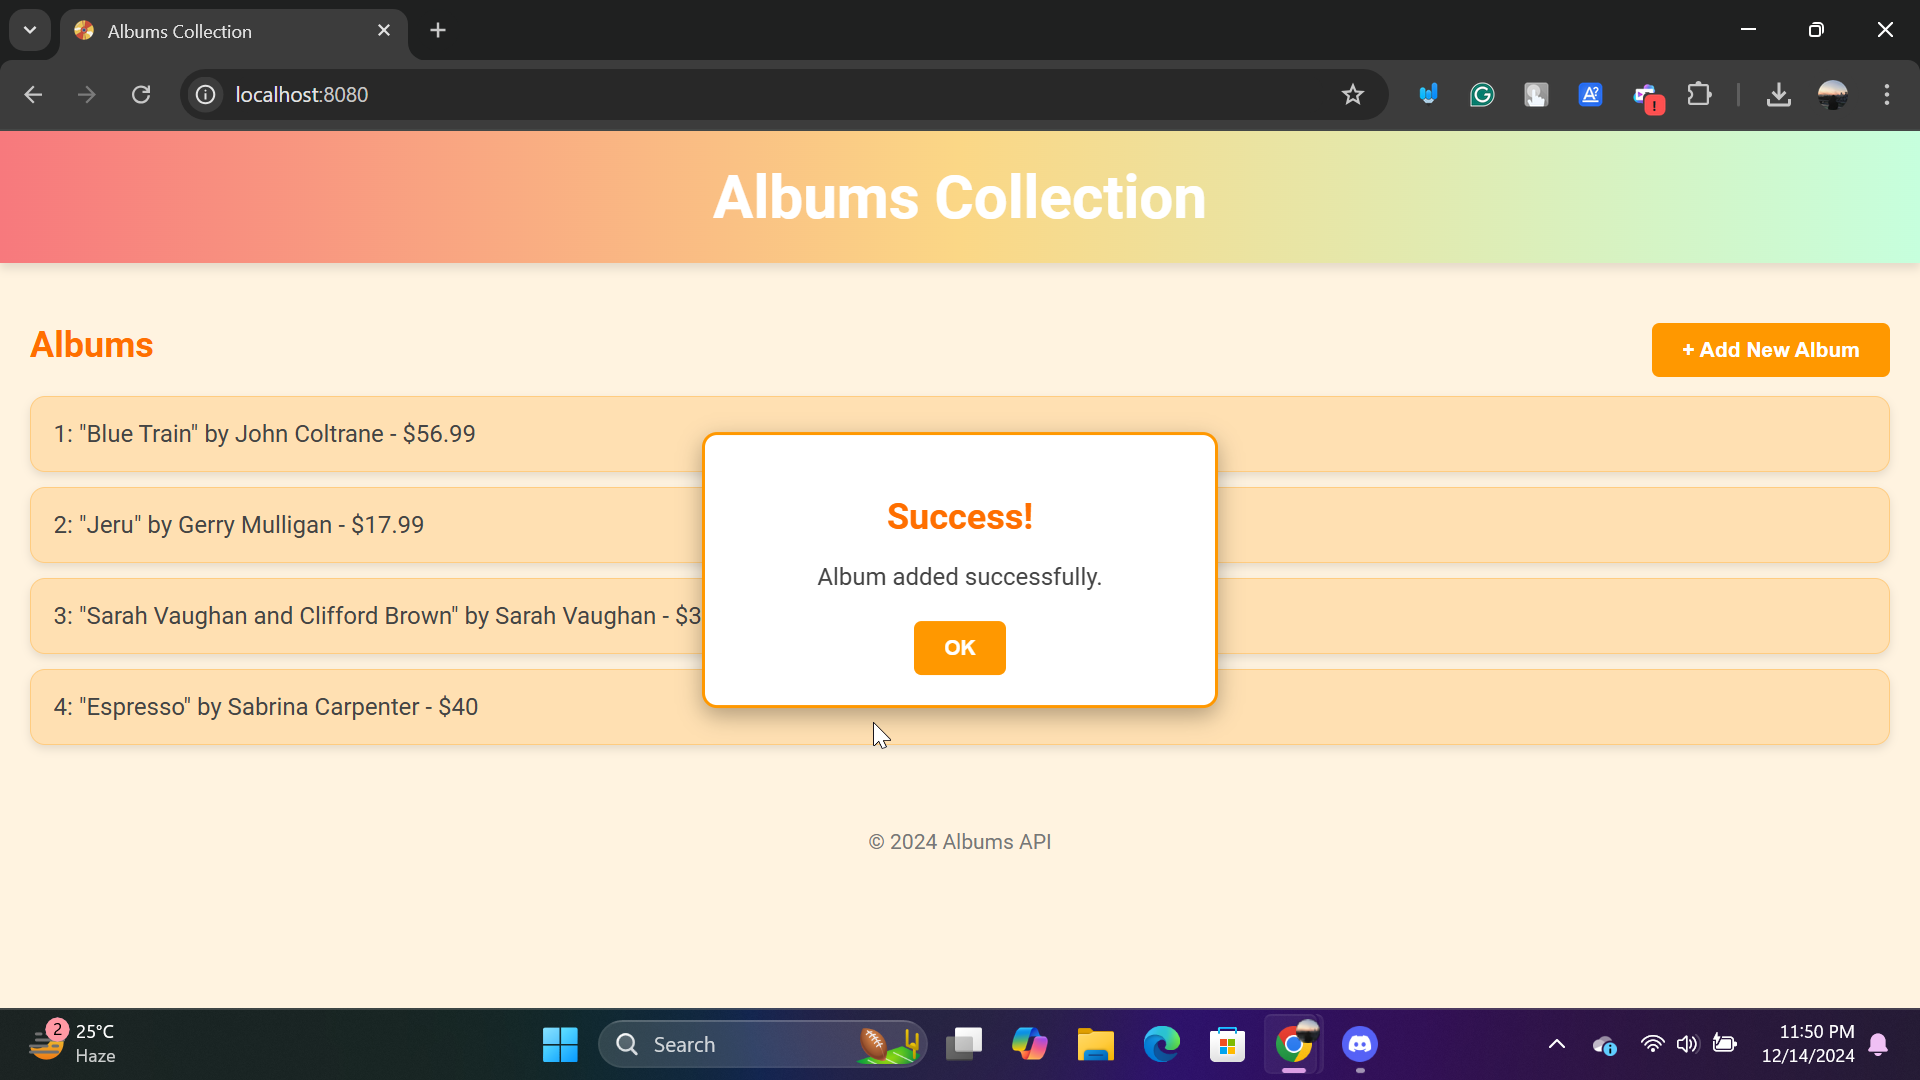
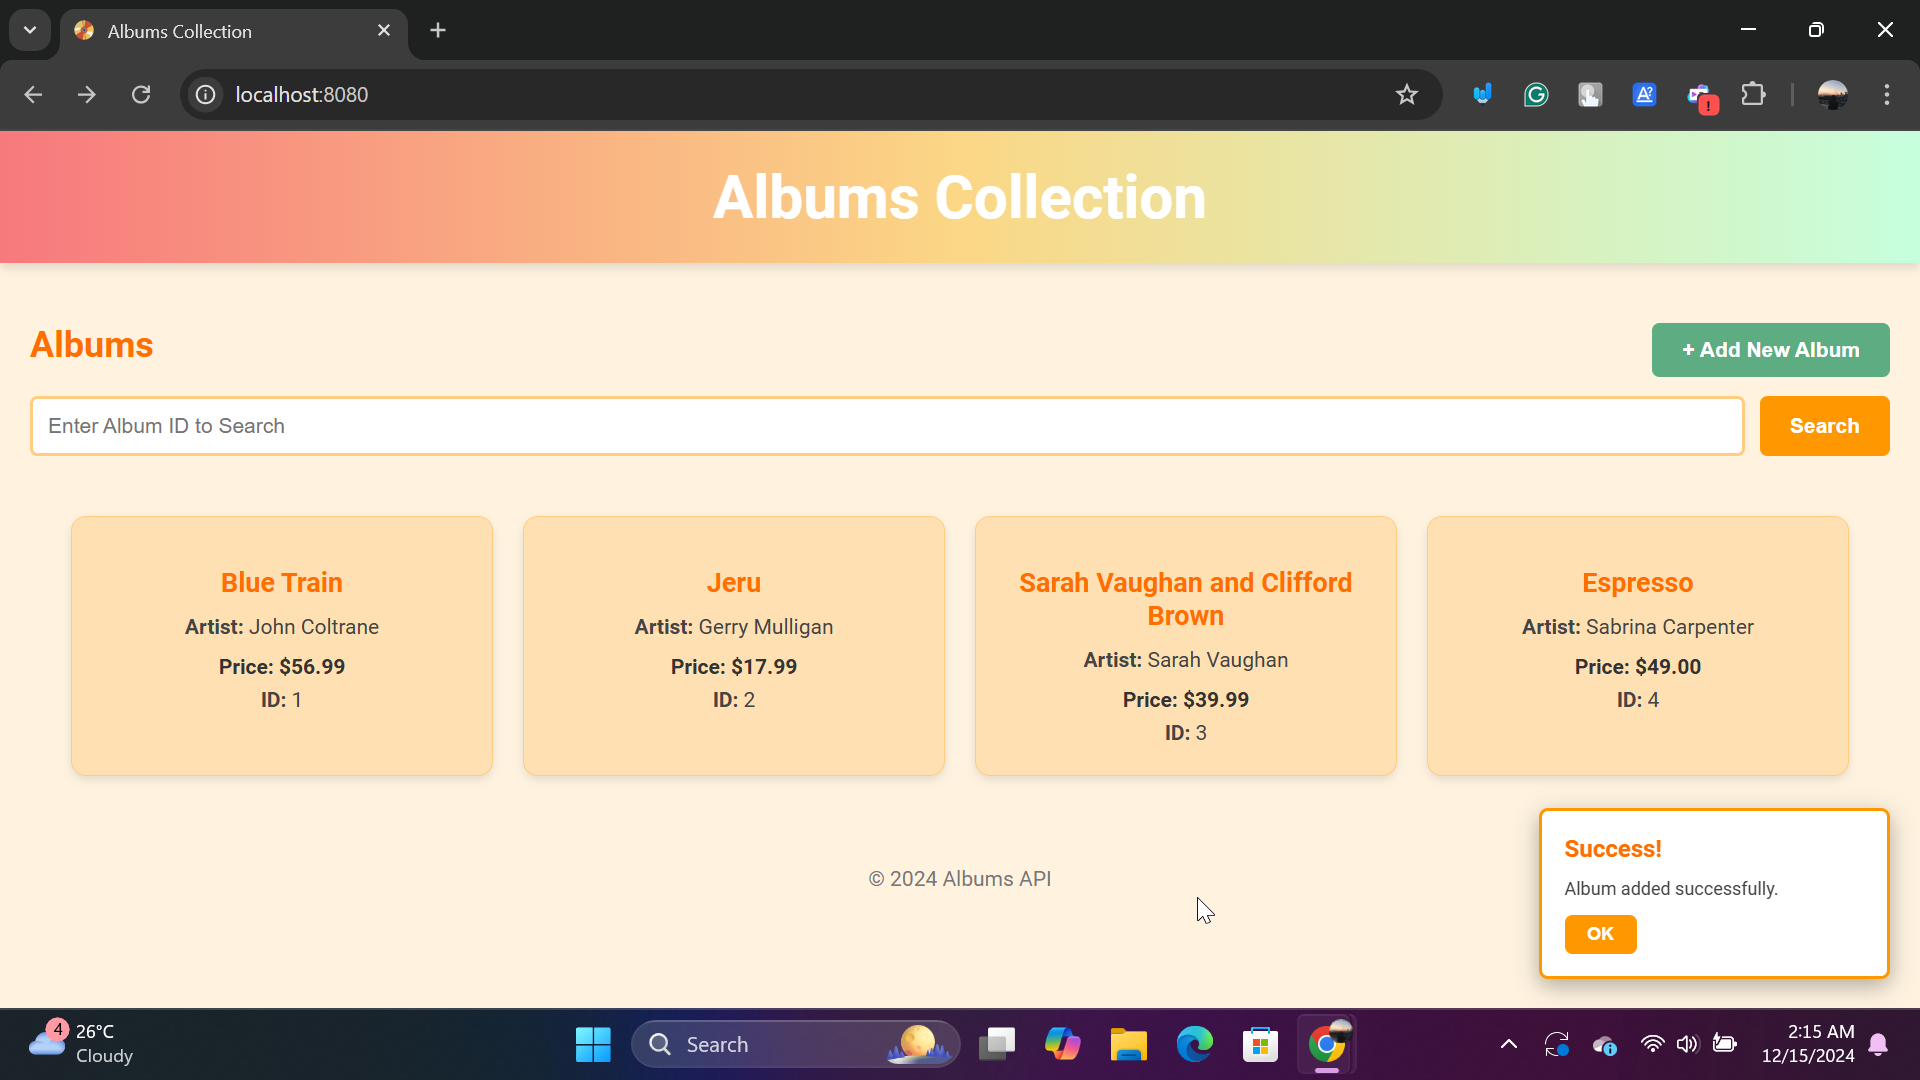
docs: update README with search feature on web-service-gin

diff --git a/web-service-gin/README.md b/web-service-gin/README.md
@@ -1,15 +1,15 @@
-# RESTful web service API using Go and the Gin
+# RESTful Web Service API using Go and the Gin Framework
 
 ## ⭐ Project Overview
-This project demonstrates building a RESTful web service API using Go and the Gin Web Framework. It was developed as part of the **Pemrograman Berbasis Kerangka Kerja (D)** course and is inspired by the [official Go tutorial](https://go.dev/doc/tutorial/web-service-gin). The application showcases CRUD functionality for managing album records, providing a simple interface to interact with a dataset.
+This project demonstrates the development of a RESTful web service API using Go and the Gin Web Framework. Built as part of the **Pemrograman Berbasis Kerangka Kerja (D)** course, the project is inspired by the [official Go tutorial](https://go.dev/doc/tutorial/web-service-gin). It provides a simple interface for managing album records, including features like viewing, adding, and searching for albums by ID.
 
 ## ⭐ How to Set Up and Run the Project
 
 ### 1. Install Go
-   - Download and install the latest version of Go from the official site: [https://go.dev/dl/](https://go.dev/dl/).
+   - Download and install the latest version of Go from the official website: [https://go.dev/dl/](https://go.dev/dl/).
 
 ### 2. Install the Gin Module
-   - Use the following command to install the Gin framework:
+   - Install the Gin framework by running the following command:
      ```bash
      go get github.com/gin-gonic/gin
      ```
@@ -21,55 +21,79 @@ This project demonstrates building a RESTful web service API using Go and the Gi
      ```
 
 ### 4. Start the Application
-   - Run the application using:
+   - Start the server by running:
      ```bash
      go run main.go
      ```
-   - This will start the server, and you should see:
+   - If successful, the server will start, and you should see:
      ```
      Starting server on http://localhost:8080
      ```
 
-## ⭐ Features Screenshots and Application Flow
+## ⭐ Features and Application Flow
 
 ### 1. Initial View
-   - When you access [http://localhost:8080](http://localhost:8080), you'll see the home page displaying a list of 3 default albums loaded from the backend.
+   - Access the application by visiting [http://localhost:8080](http://localhost:8080).
+   - The home page displays a list of 3 default albums loaded from the backend.
      ![Index Page](img/index.png)
 
 ### 2. Adding a New Album
-   - Click the **+ Add New Album** button to open a form popup.
+   - To add a new album, click the **+ Add New Album** button to open a popup form.
      ![Form Popup](img/popup-form.png)
 
-   - Fill in the form fields (e.g., Title, Artist, and Price) and submit.
+   - Fill in the form fields, such as the album's Title, Artist, and Price, then click the **Submit** button.
      ![Filled Form](img/popup-filled.png)
 
-   - A confirmation popup will appear, and the new album will be displayed in the list.
+   - A confirmation popup will notify you of a successful addition, and the album will appear in the list.
      ![Album Added](img/album-added.png)
+
+### 3. Searching for an Album by ID
+   - You can search for an album by entering its ID in the search field and pressing the **Search** button or the **Enter** key.
+     ![Search Field](img/search-field.png)
+
+   - If the album is found, it will be displayed as a card.
+     ![Search Result](img/search-result.png)
+
+   - If the album ID does not exist, a "Not Found" popup will appear in the bottom-right corner.
+     ![Search Not Found](img/search-not-found.png)
+
+   - To return to the full album list, click on the header, which acts as a link to the home page.
+     ![Press Header](img/press-header.png)
+     ![Redirected to Albums](img/index-2.png)
 
 ## ⭐ Code Flow Explanation
 
 ### 1. Backend (Go)
 
 #### **Router Setup**
-- The Gin router is used to define routes for the application, including:
-  - `GET /albums` - Fetch all albums.
+- The Gin router defines the following API routes:
+  - `GET /albums` - Retrieve a list of all albums.
   - `POST /albums` - Add a new album.
+  - `GET /albums/:id` - Fetch details of a specific album by its ID.
 
 #### **Album Data**
-- The `album` struct defines the album model with fields for ID, Title, Artist, and Price.
-- A slice of albums is used to store the data in memory.
+- The `album` struct models the album data with fields for:
+  - `ID` - Unique identifier.
+  - `Title` - Album title.
+  - `Artist` - Name of the artist.
+  - `Price` - Price of the album.
+- A slice of `album` structs is used to store data in memory for this project.
 
 ### 2. Frontend (HTML/JavaScript)
 
 #### **HTML**
-- The frontend includes an album list, a button for adding albums, and a dynamic form popup.
+- The frontend provides:
+  - A dynamic album list displayed as responsive cards.
+  - A form popup for adding new albums.
+  - A search bar for retrieving albums by ID.
 
 #### **JavaScript**
-- Fetching albums:
-  - The `fetchAlbums` function fetches data from the backend and updates the album list dynamically.
-
-- Adding albums:
-  - The `addAlbum` function sends a `POST` request to add a new album.
+- **Fetching Albums**:
+  - The `fetchAlbums` function retrieves all albums from the backend and displays them dynamically as cards.
+- **Adding Albums**:
+  - The `addAlbum` function sends a `POST` request to the backend to add a new album. The list updates automatically after a successful addition.
+- **Searching Albums**:
+  - The `searchAlbum` function allows users to search for an album by ID. If found, the album is displayed as a card. Otherwise, a popup notifies the user that the album ID was not found.
 
 ## ⭐ Conclusion
-This project serves as a basic example of building RESTful APIs with Go and Gin. It demonstrates how to implement simple data retrieval and addition functionalities, connect the frontend with a backend API, and handle user interactions effectively. Future enhancements could include implementing update and delete features, database integration, and more complex functionalities.
+This project serves as a basic example of building RESTful APIs with Go and Gin. It demonstrates key concepts such as retrieving, adding, and searching for data, while connecting the frontend with a backend API. 
